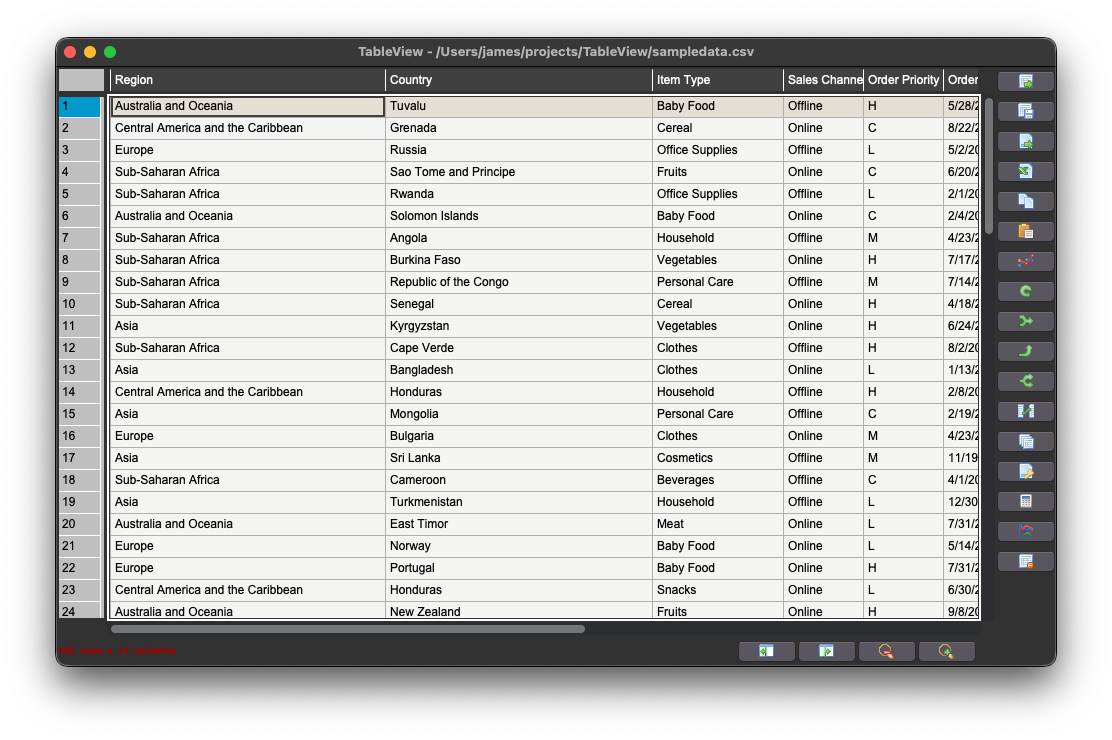
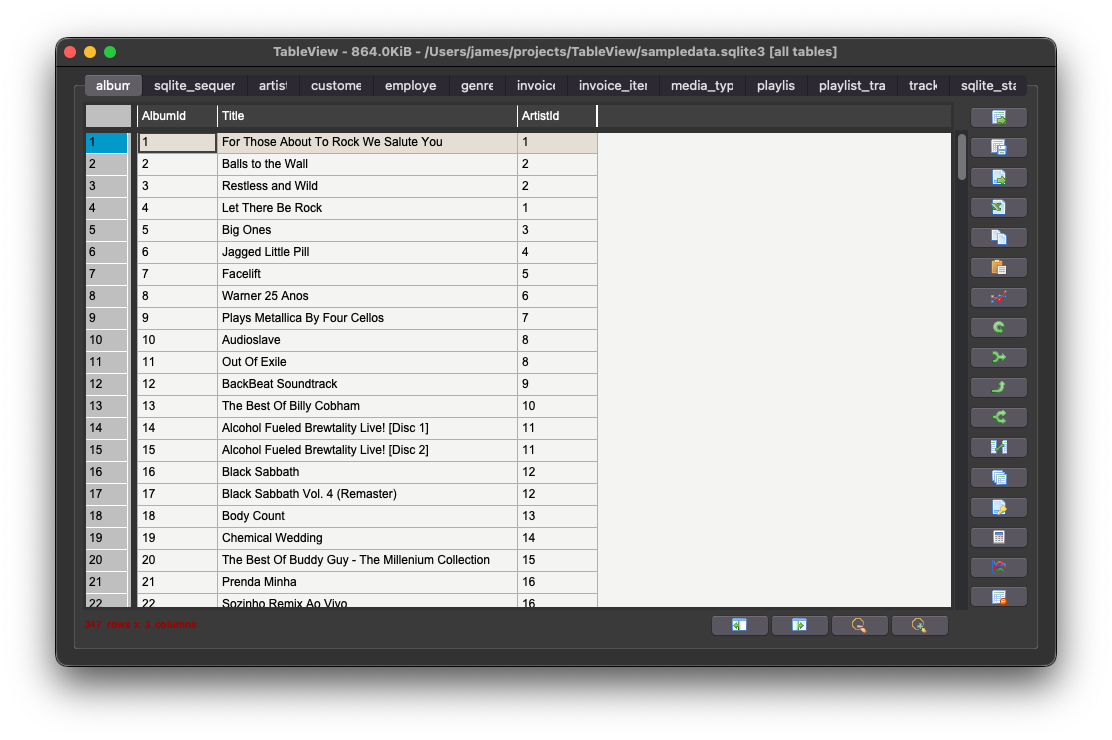
load all sheets or tables into tabs

Changed region(s): [[0.0306, 0.0622, 0.9478, 0.9014]]

diff --git a/TableView.py b/TableView.py
@@ -24,7 +24,7 @@ import pandas
 from pandastable import Table
 
 # print some extra information if True
-DEBUG_MODE = True
+DEBUG_MODE = False
 WINDOW_WIDTH = 1000
 WINDOW_HEIGHT = 600
 
@@ -36,42 +36,50 @@ class TableViewApp(tkinter.Frame):
         https://stackoverflow.com/questions/63531454/import-pandas-table-into-tkinter-project
         https://stackoverflow.com/questions/17355902/tkinter-binding-mousewheel-to-scrollbar
     """
-    def __init__(self, root, dataframe):
+    def __init__(self, root, dataframes, dataframe_names):
         super().__init__(root)
         self.scroll_threshold_h = 0.08  # handle scroll events only this often
         self.scroll_threshold_v = 0.03  # handle scroll events only this often
         self.scroll_lockout = 0.0  # how much longer to lockout other axis
         self.last_scrolled_h = time.time()
         self.last_scrolled_v = time.time()
-        self.table = Table(self, showtoolbar=True, showstatusbar=True, dataframe=dataframe)
-        self.table.bind_all("<MouseWheel>", self.on_mousewheel)
-        self.table.show()
+        self.tabcontrol = tkinter.ttk.Notebook(self)
+        for index, df in enumerate(dataframes):
+            tabframe = tkinter.ttk.Frame(self.tabcontrol)
+            thistable = Table(tabframe, showtoolbar=True, showstatusbar=True, dataframe=df)
+            self.tabcontrol.add(tabframe, text=dataframe_names[index])
+            thistable.bind_all("<MouseWheel>", self.on_mousewheel)
+            thistable.show()
+        self.tabcontrol.pack(expand=1, fill='both')
 
     def on_mousewheel(self, event):
         # handle mousewheel events and scroll the table
-        right_now = time.time()
-        scroll_distance = (event.delta * -1)
-        if event.state == 1 and (right_now - self.last_scrolled_h) > self.scroll_threshold_h:
-            # horizontal scroll
-            # print(f'scrolling horizontal delta: {event.delta}, state: {event.state} x: {event.x}, y: {event.y}')
-            self.last_scrolled_h = time.time()
-            self.last_scrolled_v = time.time() + self.scroll_lockout
-            self.table.config(xscrollincrement=50)
-            self.table.colheader.config(xscrollincrement=50)
-            self.table.xview_scroll(scroll_distance, "units")
-            self.table.colheader.xview_scroll(scroll_distance, "units")
-            self.table.redrawVisible()
-        if event.state == 0 and (right_now - self.last_scrolled_v) > self.scroll_threshold_v:
-            # vertical scroll
-            # print(f'scrolling vertical delta: {event.delta}, state: {event.state} x: {event.x}, y: {event.y}')
-            self.last_scrolled_v = time.time()
-            self.last_scrolled_h = time.time() + self.scroll_lockout
-            self.table.config(yscrollincrement=self.table.rowheight)
-            self.table.rowheader.config(yscrollincrement=self.table.rowheight)
-            self.table.yview_scroll(scroll_distance, "units")
-            self.table.rowheader.yview_scroll(scroll_distance, "units")
-            self.table.redrawVisible()
-        # self.table.currentrow = self.table.currentrow + event.delta  # change selected row
+        try:
+            right_now = time.time()
+            scroll_distance = (event.delta * -1)
+            if event.state == 1 and (right_now - self.last_scrolled_h) > self.scroll_threshold_h:
+                # horizontal scroll
+                # print(f'scrolling horizontal delta: {event.delta}, state: {event.state} x: {event.x}, y: {event.y}')
+                self.last_scrolled_h = time.time()
+                self.last_scrolled_v = time.time() + self.scroll_lockout
+                event.widget.config(xscrollincrement=50)
+                event.widget.colheader.config(xscrollincrement=50)
+                event.widget.xview_scroll(scroll_distance, "units")
+                event.widget.colheader.xview_scroll(scroll_distance, "units")
+                event.widget.redrawVisible()
+            if event.state == 0 and (right_now - self.last_scrolled_v) > self.scroll_threshold_v:
+                # vertical scroll
+                # print(f'scrolling vertical delta: {event.delta}, state: {event.state} x: {event.x}, y: {event.y}')
+                self.last_scrolled_v = time.time()
+                self.last_scrolled_h = time.time() + self.scroll_lockout
+                event.widget.config(yscrollincrement=event.widget.rowheight)
+                event.widget.rowheader.config(yscrollincrement=event.widget.rowheight)
+                event.widget.yview_scroll(scroll_distance, "units")
+                event.widget.rowheader.yview_scroll(scroll_distance, "units")
+                event.widget.redrawVisible()
+            # self.table.currentrow = self.table.currentrow + event.delta  # change selected row
+        except Exception:
+            pass  # ignore all errors
 
 def get_file_size(file_path, suffix="B"):
     """ Get the size of a given file, as a human-readable string
@@ -84,7 +92,9 @@ def get_file_size(file_path, suffix="B"):
         fsize_bytes /= 1024.0
     return f"{fsize_bytes:.1f}Yi{suffix}"
 
-def load_file(filepath, subitem=None):
+def load_file(filepath, subitem=None, is_stdin=False):
+    dataframes = []
+    dataframe_names = []
     if filepath:
         start_time = time.time()
         this_file_size = get_file_size(filepath)
@@ -94,9 +104,11 @@ def load_file(filepath, subitem=None):
         # self.table.importCSV(filepath)
         file_extension = pathlib.Path(filepath).suffix
         if file_extension == '.csv':
-            dataframe = pandas.read_csv(filepath)
+            dataframes.append(pandas.read_csv(filepath))
+            dataframe_names.append('default')
         elif file_extension == '.tsv':
-            dataframe = pandas.read_csv(filepath, sep='\t')
+            dataframes.append(pandas.read_csv(filepath, sep='\t'))
+            dataframe_names.append('default')
         elif file_extension in ['.xlsx', '.xls', '.ods']:
             # old xls, new xls, and openoffice ods formats
             xlfile = pandas.ExcelFile(filepath)
@@ -111,21 +123,31 @@ def load_file(filepath, subitem=None):
                     try:
                         sheet_name = xlfile.sheet_names[int(subitem)]
                     except Exception:
+                        print(f'Failed to find sheet: {subitem}')
                         sheet_name = None
             if not sheet_name:
                 if len(xlfile.sheet_names) == 1:
                     sheet_name = xlfile.sheet_names[0]
                     if DEBUG_MODE:
                         print(f'Only one sheet: {sheet_name}')
-                else:
-                    sheet_name = prompt_for_option('Reading spreadsheet file...', 'Choose a sheet:', xlfile.sheet_names)
-            if DEBUG_MODE:
-                print(f'Reading data from selected sheet: {sheet_name}')
-            dataframe = pandas.read_excel(filepath, sheet_name=sheet_name)
-            description = f'[sheet: {sheet_name}]'
+            if not sheet_name:
+                # load all sheets
+                if DEBUG_MODE:
+                    print(f'Reading data from {len(xlfile.sheet_names)} sheets')
+                for this_sheet in xlfile.sheet_names:
+                    dataframes.append(pandas.read_excel(filepath, sheet_name=this_sheet))
+                    dataframe_names.append(this_sheet)
+                description = '[all sheets]'
+            else:
+                if DEBUG_MODE:
+                    print(f'Reading data from selected sheet: {sheet_name}')
+                dataframes.append(pandas.read_excel(filepath, sheet_name=sheet_name))
+                dataframe_names.append(sheet_name)
+                description = f'[sheet: {sheet_name}]'
         elif file_extension == '.json':
             # json (an array of arrays, all well formatted)
-            dataframe = pandas.read_json(filepath)
+            dataframes.append(pandas.read_json(filepath))
+            dataframe_names.append('default')
         elif file_extension in ['.db', '.sqlite', '.sqlite3']:
             # try to read sqlite db
             if DEBUG_MODE:
@@ -148,6 +170,7 @@ def load_file(filepath, subitem=None):
                     try:
                         table_name = tables_list[int(subitem)]
                     except Exception:
+                        print(f'Failed to find table: {subitem}')
                         table_name = None
             if not table_name:
                 if len(tables_list) == 1:
@@ -155,27 +178,38 @@ def load_file(filepath, subitem=None):
                     table_name = tables_list[0]
                     if DEBUG_MODE:
                         print(f'Only one table: {table_name}')
-                else:
-                    if DEBUG_MODE:
-                        print(f'Database has {len(tables_list)} tables, prompting for selection')
-                    table_name = prompt_for_option('Reading sqlite3 database...', 'Choose a table to read:', tables_list)
-            if DEBUG_MODE:
-                print(f'Reading data from selected table: {table_name}')
-            dataframe = pandas.read_sql_query(f"SELECT * FROM {table_name};", db_conn)
-            description = f'[table: {table_name}]'
+            if not table_name:
+                # load all tables
+                if DEBUG_MODE:
+                    print(f'Reading data from {len(tables_list)} tables')
+                for this_table in tables_list:
+                    dataframes.append(pandas.read_sql_query(f"SELECT * FROM {this_table};", db_conn))
+                    dataframe_names.append(this_table)
+                description = '[all tables]'
+            else:
+                if DEBUG_MODE:
+                    print(f'Reading data from selected table: {table_name}')
+                dataframes.append(pandas.read_sql_query(f"SELECT * FROM {table_name};", db_conn))
+                description = f'[table: {table_name}]'
             db_conn.close()
         else:
             print(f'Unsupported file extension: {file_extension}')
             sys.exit(1)
         end_time = time.time()
+        # TODO when loading an xlsx sheet, or sqlite table, the subitem size is less than file size
+        #   in title, size is misleading
         print(f'Loaded {this_file_size} in {end_time - start_time} seconds')
-        description = f'{this_file_size} - {filepath} {description}'
+        if is_stdin:
+            description = f'{this_file_size} - (from stdin)'
+        else:
+            description = f'{this_file_size} - {filepath} {description}'
     else:
-        dataframe = pandas.DataFrame()
-        description = ''
-    return (dataframe, description)
+        dataframes.append(pandas.DataFrame())
+        dataframe_names.append('default')
+        description = '(no data loaded)'
+    return (dataframes, dataframe_names, description)
 
-def prompt_for_option(title, prompt, options):
+def prompt_for_option(title, prompt, options=None):
     # ask the user to choose one of the given options, then return the selected option
     prompt_width = 300
     prompt_height = (25 * len(options)) + 50
@@ -190,7 +224,65 @@ def prompt_for_option(title, prompt, options):
         tkinter.Radiobutton(root, text=option, variable=v, value=i).pack(anchor='w')
     tkinter.Button(text='Submit', command=root.destroy).pack()
     root.mainloop()
+    if len(options) == 0:
+        return  # if no options provided, dont try to return any
     return options[v.get()]
+
+def notify(message):
+    # show a message
+    prompt_for_option('Notice', message, [])
+
+def show_table(data, data_names, title):
+    """ show a window with table for the given dataframe
+    """
+    window_root = tkinter.Tk()
+    # put it in the center of the screen
+    startpoint_x = (window_root.winfo_screenwidth() / 2) - (WINDOW_WIDTH / 2) + random.randint(1, 10)
+    startpoint_y = (window_root.winfo_screenheight() / 2) - (WINDOW_HEIGHT / 2) + random.randint(1, 10)
+    window_root.geometry('%dx%d+%d+%d' % (WINDOW_WIDTH, WINDOW_HEIGHT, startpoint_x, startpoint_y))
+    window_root.title(title)
+    app = TableViewApp(window_root, data, data_names)
+    app.pack(fill=tkinter.BOTH, expand=1)
+    window_root.mainloop()
+
+def get_input_file_str(arguments):
+    b_has_stdin = False
+    input_file_path = None
+    input_data = []
+    if not arguments['file']:
+        b_has_stdin = select.select([sys.stdin, ], [], [], 0.0)[0]  # check if any data in stdin
+        if b_has_stdin:
+            # we have data at stdin, lets see if it is empty
+            csv_reader = csv.reader(stdin)
+            input_data = []
+            for row in csv_reader:
+                if row:
+                    input_data.append(row)
+            if not input_data:
+                b_has_stdin = False
+        if b_has_stdin:
+            if DEBUG_MODE:
+                print('TableView: loaded data from stdin')
+            # write input_data to a tempfile, because pandastable is MUCH faster at reading it from the file
+            temp_csv = tempfile.mkstemp(prefix='tableview_', suffix='.csv')[1]
+            input_file_path = str(temp_csv)
+            if DEBUG_MODE:
+                print('Writing data from stdin to tempfile: %s' % input_file_str)
+            w_start_time = time.time()
+            with open(temp_csv, 'w', encoding='utf-8') as tcsv:
+                writer = csv.writer(tcsv)
+                writer.writerows(input_data)
+            w_end_time = time.time()
+            if DEBUG_MODE:
+                print(f'Write .csv took {w_end_time - w_start_time} seconds')
+    else:
+        input_file_arg = arguments['file']
+        # normalize to absolute path
+        input_file = pathlib.Path(input_file_arg).resolve()
+        input_file_path = str(input_file)
+        if not input_file.is_file():
+            raise Exception('File not found!')
+    return (input_file_path, b_has_stdin)
 
 if __name__ == '__main__':
     # parse args
@@ -199,59 +291,16 @@ if __name__ == '__main__':
     parser.add_argument('subitem', nargs='?', help='which sheet or table')
     args = vars(parser.parse_args())
     window_title = 'TableView'  # default, but we will overwrite this with filename
-    # First - figure out if we are loading data from stdin, from file passed as arg, or using a file picker dialog
-    #   and then populate input_file_str
-    input_data = {}
-    input_file_str = None
-    input_file_name = None
     try:
-        if not args['file']:
-            b_has_stdin = select.select([sys.stdin, ], [], [], 0.0)[0]  # check if any data in stdin
-            if b_has_stdin:
-                # we have data at stdin, lets see if it is empty
-                csv_reader = csv.reader(stdin)
-                input_data = []
-                for row in csv_reader:
-                    if row:
-                        input_data.append(row)
-                if not input_data:
-                    b_has_stdin = False
-            if b_has_stdin:
-                input_file_name = '(from stdin)'
-                if DEBUG_MODE:
-                    print('TableView: loaded data from stdin')
-                # write input_data to a tempfile, because pandastable is MUCH faster at reading it from the file
-                temp_csv = tempfile.mkstemp(prefix='tableview_', suffix='.csv')[1]
-                input_file_str = str(temp_csv)
-                if DEBUG_MODE:
-                    print('Writing data from stdin to tempfile: %s' % input_file_str)
-                w_start_time = time.time()
-                with open(temp_csv, 'w', encoding='utf-8') as tcsv:
-                    writer = csv.writer(tcsv)
-                    writer.writerows(input_data)
-                w_end_time = time.time()
-                if DEBUG_MODE:
-                    print(f'Write .csv took {w_end_time - w_start_time} seconds')
-        else:
-            input_file_arg = args['file']
-            # normalize to absolute path
-            input_file = pathlib.Path(input_file_arg).resolve()
-            input_file_str = str(input_file)
-            if not input_file.is_file():
-                raise Exception('File not found!')
-
-        # Finally - show a window with a Table populated from input_file_str
-        (input_dataframe, input_desc) = load_file(input_file_str, args['subitem'])
+        # First - figure out if we are loading data from stdin, or from file passed as arg
+        #   if needed, write stdin data to a tempfile first
+        (input_file_str, from_stdin) = get_input_file_str(args)
+        # Next - load the file into a dataframe, and generate a description
+        # TODO this tuple return is ugly, refactor this
+        (input_dataframes, input_dataframe_names, input_desc) = load_file(input_file_str, args['subitem'], from_stdin)
+        # Finally - show a table populated with the dataframe
         window_title = f'TableView - {input_desc}'
-        window_root = tkinter.Tk()
-        # put it in the center of the screen
-        startpoint_x = (window_root.winfo_screenwidth() / 2) - (WINDOW_WIDTH / 2) + random.randint(1, 10)
-        startpoint_y = (window_root.winfo_screenheight() / 2) - (WINDOW_HEIGHT / 2) + random.randint(1, 10)
-        window_root.geometry('%dx%d+%d+%d' % (WINDOW_WIDTH, WINDOW_HEIGHT, startpoint_x, startpoint_y))
-        window_root.title(window_title)
-        app = TableViewApp(window_root, input_dataframe)
-        app.pack(fill=tkinter.BOTH, expand=1)
-        window_root.mainloop()
+        show_table(input_dataframes, input_dataframe_names, window_title)
     except Exception as ex:
         print('something went wrong: %s', ex)
         traceback.print_exc()

diff --git a/Readme.md b/Readme.md
@@ -52,10 +52,10 @@ tableview sampledata.csv
 tableview sampledata.tsv
 tableview sampledata.xls
 tableview sampledata.ods
-tableview sampledata.xlsx # will prompt to select sheet
+tableview sampledata.xlsx # will load all sheets
 tableview sampledata.xlsx sampledata # will load sheet named "sampledata"
 tableview sampledata.xlsx 0  # will load first sheet (zero-indexed)
-tableview sampledata.sqlite3  # will prompt to select table
+tableview sampledata.sqlite3  # load all tables
 tableview sampledata.sqlite3 artists  # will load the table named "artists"
 tableview sampledata.sqlite3 3  # will load the 4th table (zero-indexed)
 
